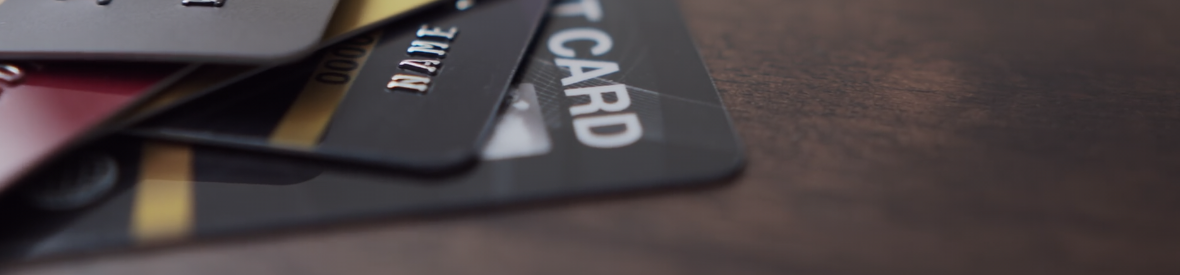
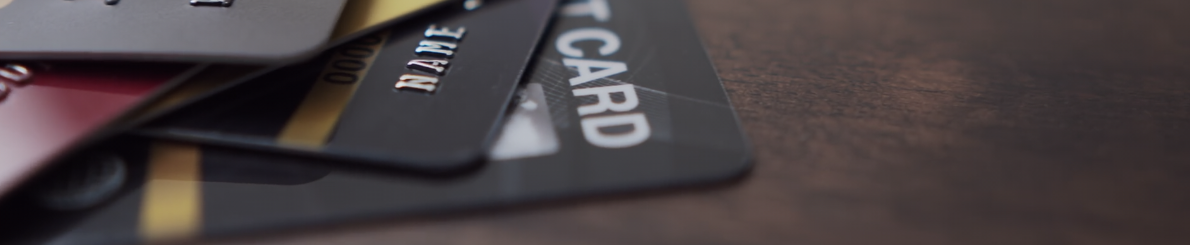
upd

diff --git a/docs/index.html b/docs/index.html
@@ -6,7 +6,7 @@
     <meta name="viewport" content="width=device-width, initial-scale=1">
     <title>Credit Card Fraud Detection Dataset</title>
     <link rel="stylesheet" href="index.css">
-    <link rel="shortcut icon" type="image/x-icon" href="favicon.png">
+    <link rel="shortcut icon" type="image/x-icon" href="img/favicon/favicon.png">
     <!-- <script src="https://polyfill.io/v3/polyfill.min.js?features=es6"></script> -->
     <script id="MathJax-script" async src="https://cdn.jsdelivr.net/npm/mathjax@3/es5/tex-mml-chtml.js"></script>
 </head>